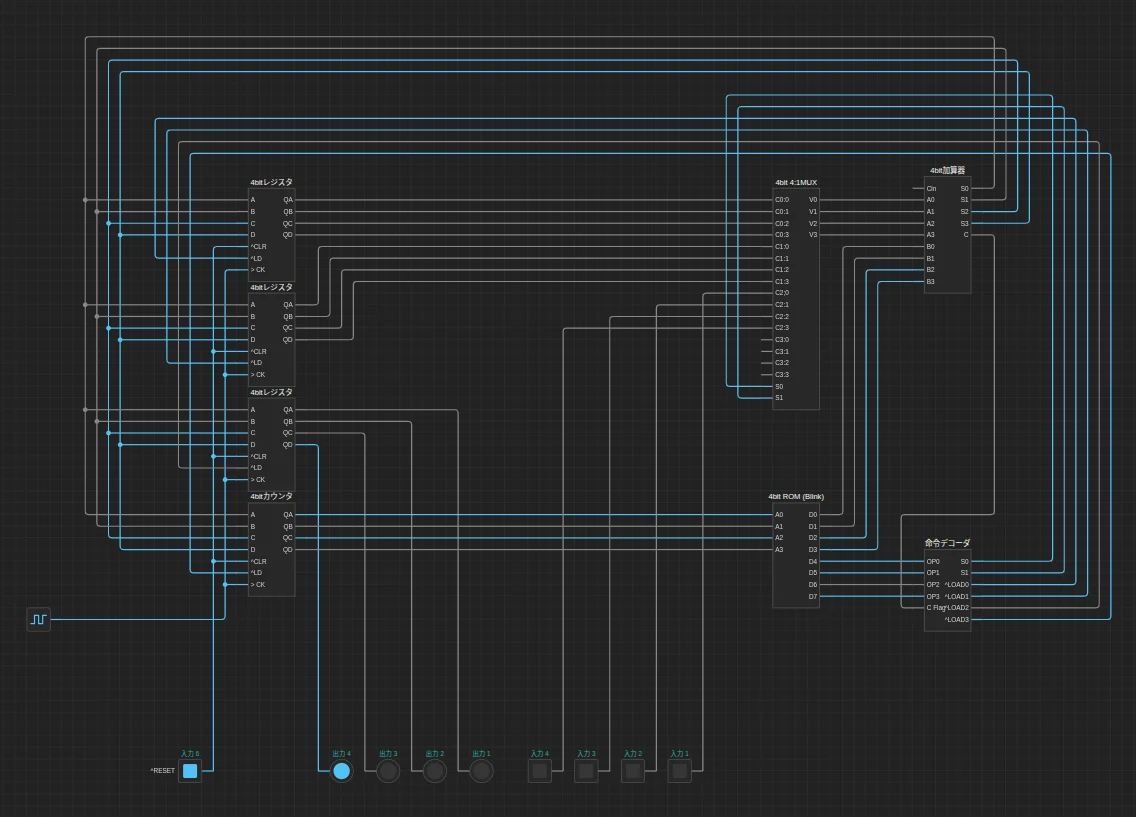
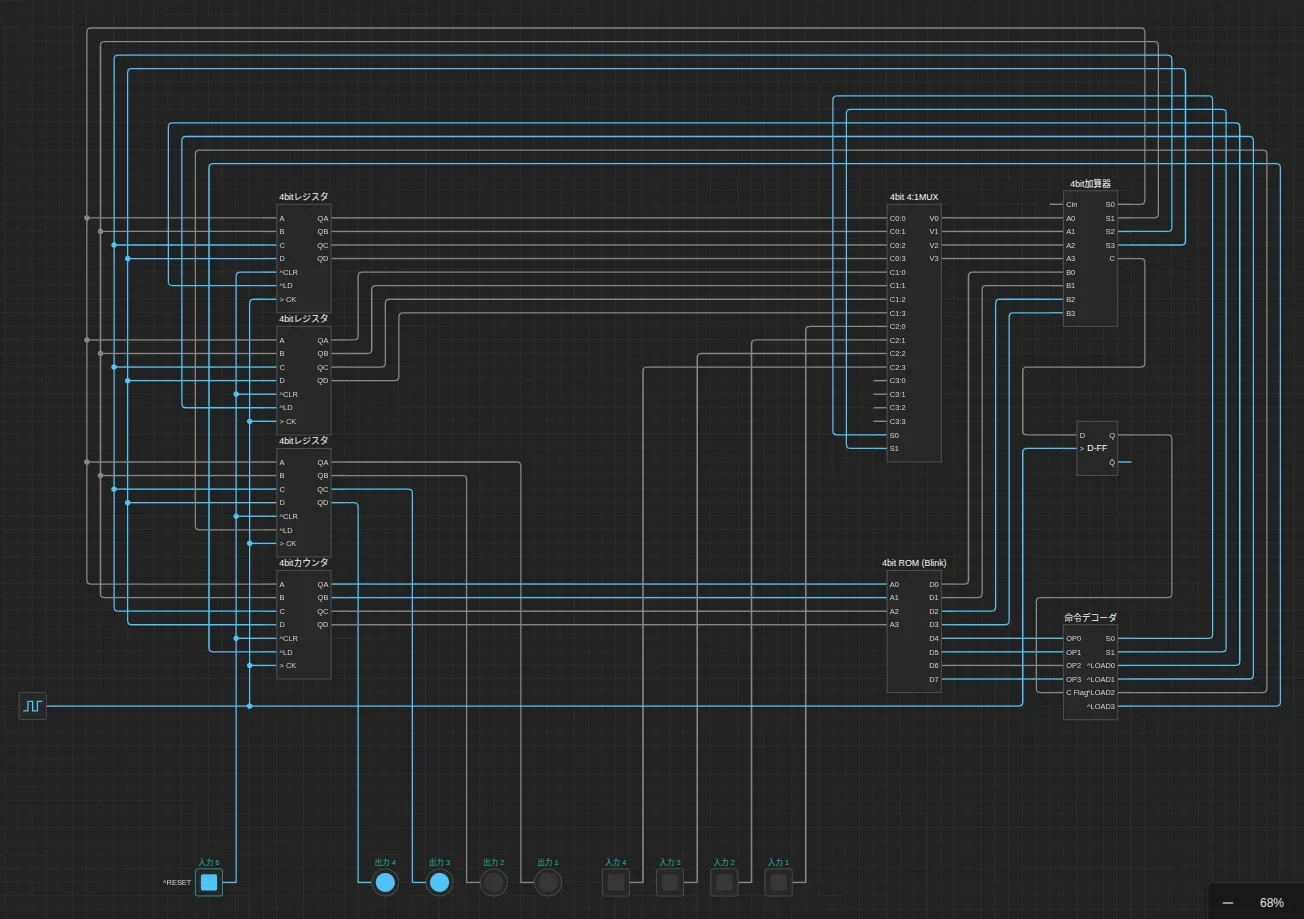
作品紹介ページを更新

Changed region(s): [[0.0, 0.0306, 0.9859, 0.9792], [0.1232, 0.918, 0.1849, 0.9792], [0.9551, 0.9792, 0.9859, 1.0]]

diff --git a/docs/introduce-works/README.md b/docs/introduce-works/README.md
@@ -9,7 +9,7 @@
 書籍「CPUの創りかた」に登場するCPUのTD4を実装した例です。
 
 動作している様子の動画:  
-- https://mk.xiupos.net/notes/as5i6v5ns6
+https://mk.xiupos.net/notes/as5nkhaptd
 
-共有用データのリンクもあります:  
-- https://mk.xiupos.net/notes/as5i8bw8s8
+共有用データのリンク:  
+https://gist.github.com/xiupos/6f450ccc38301421717d8df1bbe78ec3
